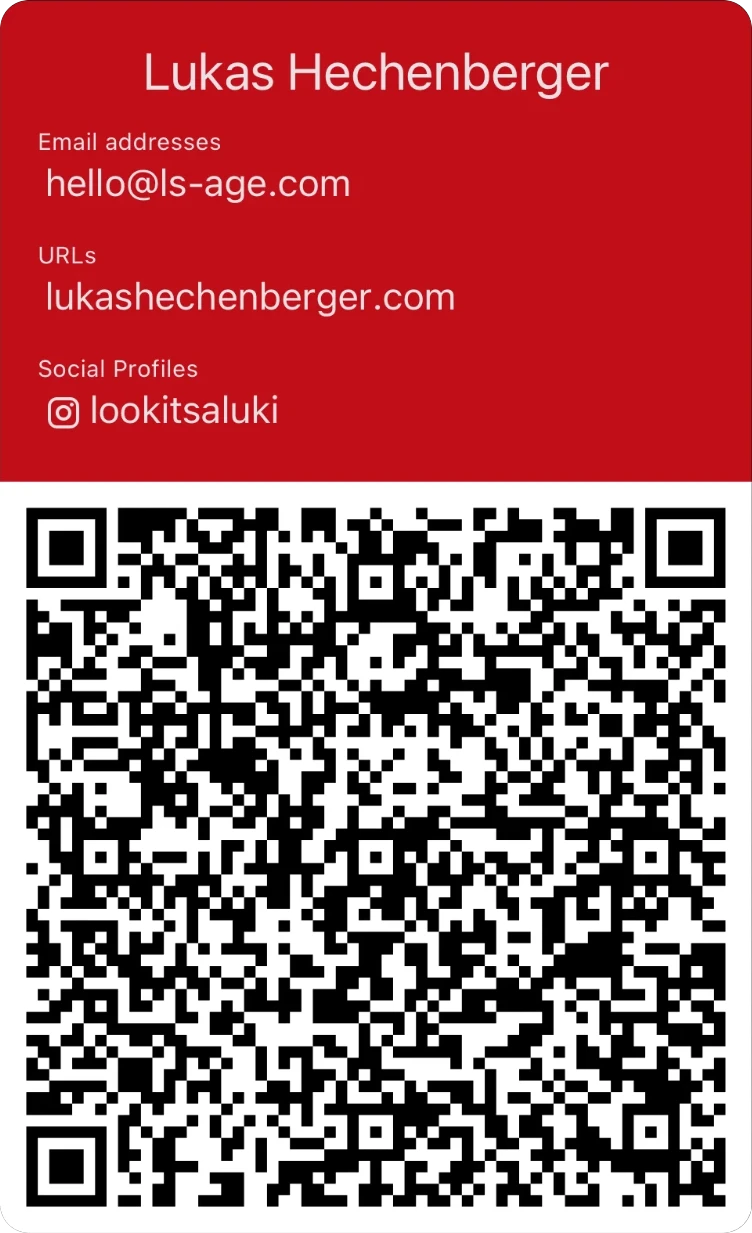
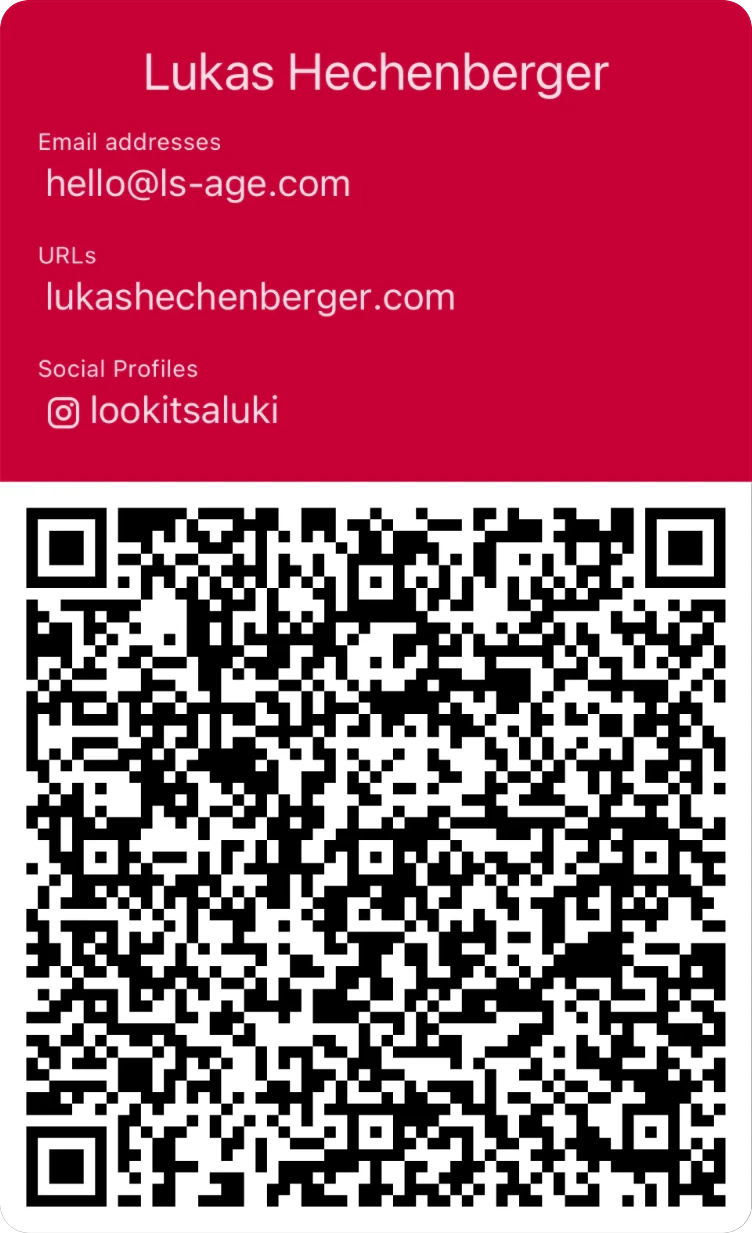
feat(web): Add my photo to the hero and match the QRcard to the theme
Show the photo in a circle above the heading, and recolor the card's header to the theme's primary color, with a variant for dark mode.

diff --git a/apps/web/src/app/(app)/page.tsx b/apps/web/src/app/(app)/page.tsx
@@ -87,6 +87,14 @@ export default async function HomePage() {
       <JsonLd thing={website} />
       <section className="mx-auto grid max-w-5xl items-center gap-12 px-4 py-16 sm:py-24 md:grid-cols-[1fr_auto]">
         <div className="flex flex-col gap-6">
+          <Image
+            src="/lukas-hechenberger.png"
+            alt={site.author.name}
+            width={256}
+            height={256}
+            priority
+            className="ring-background size-24 rounded-full shadow-md ring-4"
+          />
           <h1 className="text-balance text-4xl font-semibold tracking-tight sm:text-5xl">
             I build web apps, end to end.
           </h1>
@@ -96,19 +104,28 @@ export default async function HomePage() {
           </p>
           <div className="flex flex-wrap gap-3">
             <ContactDialog label="Get in touch" size="lg" />
-            <Link href="/blog" className={buttonVariants({ variant: 'outline', size: 'lg' })}>
+            <Link href="/blog" className={buttonVariants({ variant: 'secondary', size: 'lg' })}>
               Read the blog
             </Link>
           </div>
         </div>
         <figure className="mx-auto flex w-64 flex-col items-center gap-3 sm:w-72">
+          {/* Recolored to the theme's primary color, so the card switches with the theme */}
           <Image
             src="/qrcard-lukas-hechenberger.webp"
             alt={`QRcard of ${site.author.name}: email address, website, Instagram profile and QR code`}
             width={752}
             height={1233}
             priority
-            className="w-full rotate-2 rounded-2xl shadow-xl"
+            className="w-full rotate-2 rounded-2xl shadow-xl dark:hidden"
+          />
+          <Image
+            src="/qrcard-lukas-hechenberger-dark.webp"
+            alt={`QRcard of ${site.author.name}: email address, website, Instagram profile and QR code`}
+            width={752}
+            height={1233}
+            priority
+            className="hidden w-full rotate-2 rounded-2xl shadow-xl dark:block"
           />
           <figcaption className="text-muted-foreground text-sm">
             {site.author.name} on{' '}
